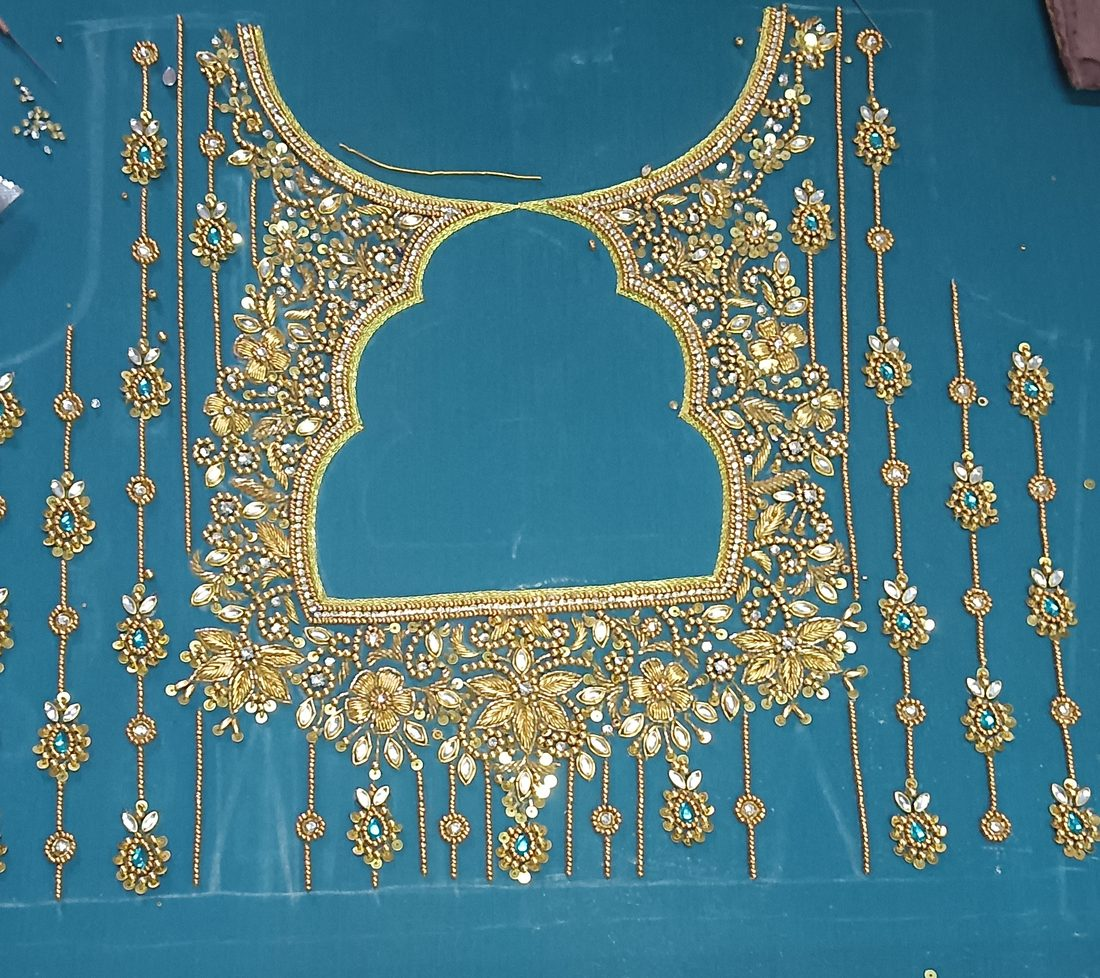
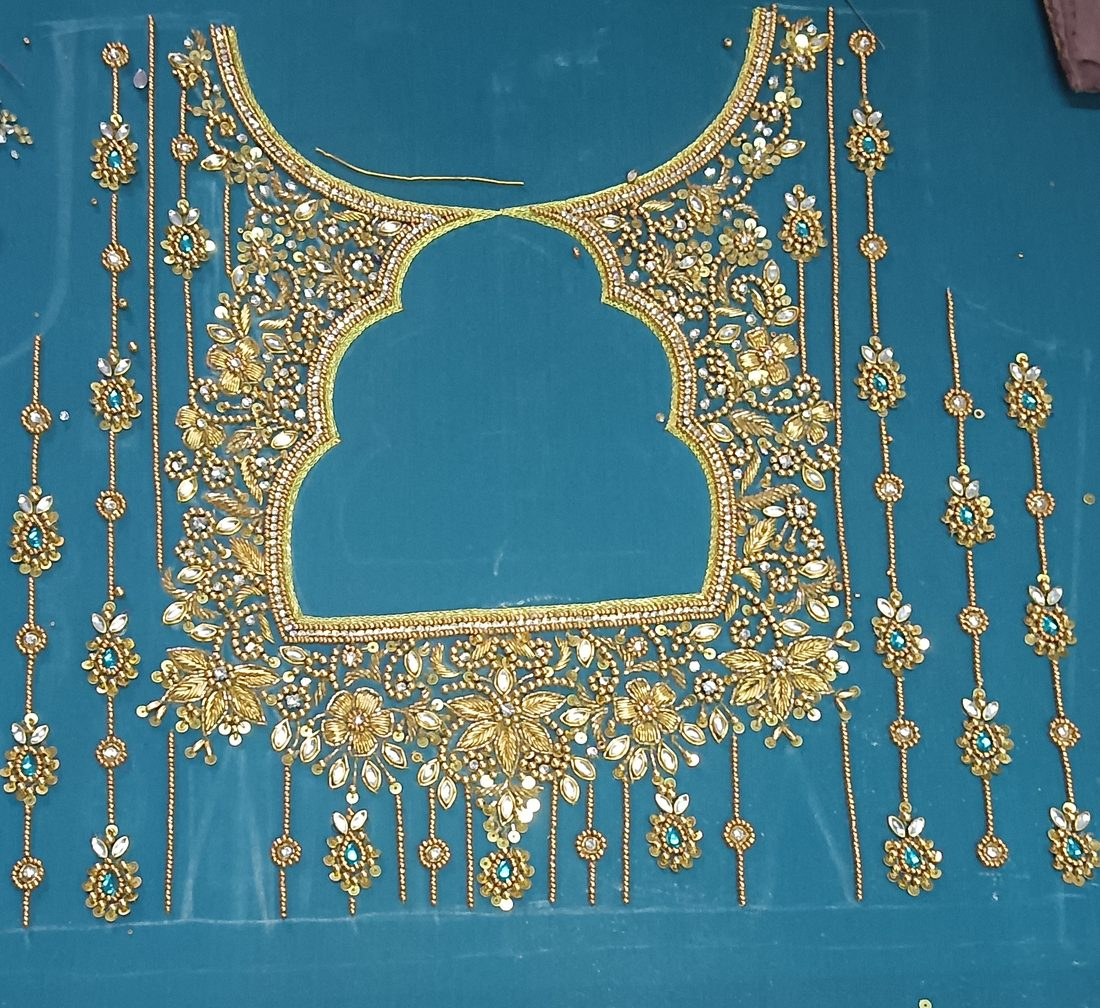
Women's card: crop out the pink bead packet completely
Verified no pink pixels remain; cache-bust the card image so browsers
holding the previous crop fetch the new one. Bump versions to v22.

diff --git a/styles.css b/styles.css
@@ -311,7 +311,7 @@ html[dir="rtl"] .hero-training { background: linear-gradient(260deg, rgba(44,9,1
 .cat-sub { font-size: .95rem; color: rgba(255,255,255,.9); }
 .cat-cta { margin-top: 14px; width: fit-content; padding: 9px 18px; border-radius: 999px; font-size: .9rem; font-weight: 700; background: rgba(255,255,255,.16); border: 1px solid rgba(236,208,138,.6); transition: background .2s; }
 .cat-card:hover .cat-cta { background: var(--accent); }
-.cat-maroon { --accent: var(--sindoor); background-image: linear-gradient(0deg, rgba(44,9,16,.94) 0%, rgba(44,9,16,.35) 48%, rgba(44,9,16,0) 75%), url('images/sm/card-women.jpg'); background-position: center 45%; }
+.cat-maroon { --accent: var(--sindoor); background-image: linear-gradient(0deg, rgba(44,9,16,.94) 0%, rgba(44,9,16,.35) 48%, rgba(44,9,16,0) 75%), url('images/sm/card-women.jpg?v=22'); background-position: center 45%; }
 /* PLACEHOLDER stock photo until the shop sends its own men's-wear photo:
    "Traditional Clothing on Hanger" by viresh studio, Pexels License (free commercial use)
    https://www.pexels.com/photo/traditional-clothing-on-hanger-18016521/ */

diff --git a/index.html b/index.html
@@ -27,7 +27,7 @@
 <link rel="preconnect" href="https://fonts.googleapis.com">
 <link rel="preconnect" href="https://fonts.gstatic.com" crossorigin>
 <link rel="stylesheet" href="https://fonts.googleapis.com/css2?family=Playfair+Display:ital,wght@0,500;0,600;0,700;1,500;1,600&family=Manrope:wght@400;500;600;700&display=swap">
-<link rel="stylesheet" href="styles.css?v=21">
+<link rel="stylesheet" href="styles.css?v=22">
 <link rel="preload" as="image" href="images/sm/hero-1.jpg" imagesrcset="images/sm/hero-1.jpg 600w, images/hero-1.jpg 957w" imagesizes="(max-width: 900px) 55vw, 30vw">
 <script type="application/ld+json">
 {
@@ -687,8 +687,8 @@
   <button type="button" class="lb-nav lb-next" id="lbNext" data-i18n-aria="ui.next" aria-label="Next photo">&rarr;</button>
 </div>
 
-<script src="config.js?v=21" defer></script>
-<script src="i18n.js?v=21" defer></script>
-<script src="script.js?v=21" defer></script>
+<script src="config.js?v=22" defer></script>
+<script src="i18n.js?v=22" defer></script>
+<script src="script.js?v=22" defer></script>
 </body>
 </html>

diff --git a/privacy.html b/privacy.html
@@ -12,7 +12,7 @@
 <meta name="theme-color" content="#4a0f1a">
 <link rel="icon" href="favicon.png" type="image/png">
 <link rel="stylesheet" href="https://fonts.googleapis.com/css2?family=Playfair+Display:ital,wght@0,500;0,600;0,700;1,500;1,600&family=Manrope:wght@400;500;600;700&display=swap">
-<link rel="stylesheet" href="styles.css?v=21">
+<link rel="stylesheet" href="styles.css?v=22">
 </head>
 <body class="legal-page">
 <a class="skip-link" href="#main" data-i18n="a11y.skip">Skip to content</a>
@@ -81,8 +81,8 @@
     <span><a class="to-top" href="index.html" data-i18n="tab.home">Home</a> · <a class="to-top" href="terms.html" data-i18n="foot.terms">Terms &amp; Refund Policy</a></span>
   </div>
 </footer>
-<script src="config.js?v=21" defer></script>
-<script src="i18n.js?v=21" defer></script>
-<script src="script.js?v=21" defer></script>
+<script src="config.js?v=22" defer></script>
+<script src="i18n.js?v=22" defer></script>
+<script src="script.js?v=22" defer></script>
 </body>
 </html>

diff --git a/terms.html b/terms.html
@@ -12,7 +12,7 @@
 <meta name="theme-color" content="#4a0f1a">
 <link rel="icon" href="favicon.png" type="image/png">
 <link rel="stylesheet" href="https://fonts.googleapis.com/css2?family=Playfair+Display:ital,wght@0,500;0,600;0,700;1,500;1,600&family=Manrope:wght@400;500;600;700&display=swap">
-<link rel="stylesheet" href="styles.css?v=21">
+<link rel="stylesheet" href="styles.css?v=22">
 </head>
 <body class="legal-page">
 <a class="skip-link" href="#main" data-i18n="a11y.skip">Skip to content</a>
@@ -70,8 +70,8 @@
     <span><a class="to-top" href="index.html" data-i18n="tab.home">Home</a> · <a class="to-top" href="privacy.html" data-i18n="foot.privacy">Privacy Policy</a></span>
   </div>
 </footer>
-<script src="config.js?v=21" defer></script>
-<script src="i18n.js?v=21" defer></script>
-<script src="script.js?v=21" defer></script>
+<script src="config.js?v=22" defer></script>
+<script src="i18n.js?v=22" defer></script>
+<script src="script.js?v=22" defer></script>
 </body>
 </html>

diff --git a/training.html b/training.html
@@ -27,7 +27,7 @@
 <link rel="preconnect" href="https://fonts.googleapis.com">
 <link rel="preconnect" href="https://fonts.gstatic.com" crossorigin>
 <link rel="stylesheet" href="https://fonts.googleapis.com/css2?family=Playfair+Display:ital,wght@0,500;0,600;0,700;1,500;1,600&family=Manrope:wght@400;500;600;700&display=swap">
-<link rel="stylesheet" href="styles.css?v=21">
+<link rel="stylesheet" href="styles.css?v=22">
 <script type="application/ld+json">
 {
   "@context": "https://schema.org",
@@ -269,8 +269,8 @@
   <a href="tel:+919789651814"><svg width="20" height="20" aria-hidden="true"><use href="#i-phone"/></svg><span data-i18n="nav.call">Call</span></a>
 </nav>
 
-<script src="config.js?v=21" defer></script>
-<script src="i18n.js?v=21" defer></script>
-<script src="script.js?v=21" defer></script>
+<script src="config.js?v=22" defer></script>
+<script src="i18n.js?v=22" defer></script>
+<script src="script.js?v=22" defer></script>
 </body>
 </html>

diff --git a/404.html b/404.html
@@ -9,7 +9,7 @@
 <!-- GitHub Pages serves this file for any missing URL, at any depth, so links are absolute to the site root. -->
 <link rel="icon" href="/sakthi-tailor/favicon.png" type="image/png">
 <link rel="stylesheet" href="https://fonts.googleapis.com/css2?family=Playfair+Display:ital,wght@0,500;0,600;0,700;1,500;1,600&family=Manrope:wght@400;500;600;700&display=swap">
-<link rel="stylesheet" href="/sakthi-tailor/styles.css?v=21">
+<link rel="stylesheet" href="/sakthi-tailor/styles.css?v=22">
 </head>
 <body class="error-page">
   <main class="wrap">

diff --git a/offline.html b/offline.html
@@ -6,7 +6,7 @@
 <title>You're offline — Sakthi Tailor & Garments</title>
 <meta name="robots" content="noindex">
 <link rel="icon" href="favicon.png" type="image/png">
-<link rel="stylesheet" href="styles.css?v=21">
+<link rel="stylesheet" href="styles.css?v=22">
 </head>
 <body class="error-page">
   <main class="wrap">

diff --git a/sw.js b/sw.js
@@ -7,7 +7,7 @@
 // Paths are relative to this file, so the site works on GitHub Pages'
 // /sakthi-tailor/ path or on a custom domain.
 
-const CACHE_NAME = "sakthi-tailor-v21";
+const CACHE_NAME = "sakthi-tailor-v22";
 const CORE_ASSETS = [
   "./",
   "index.html",
